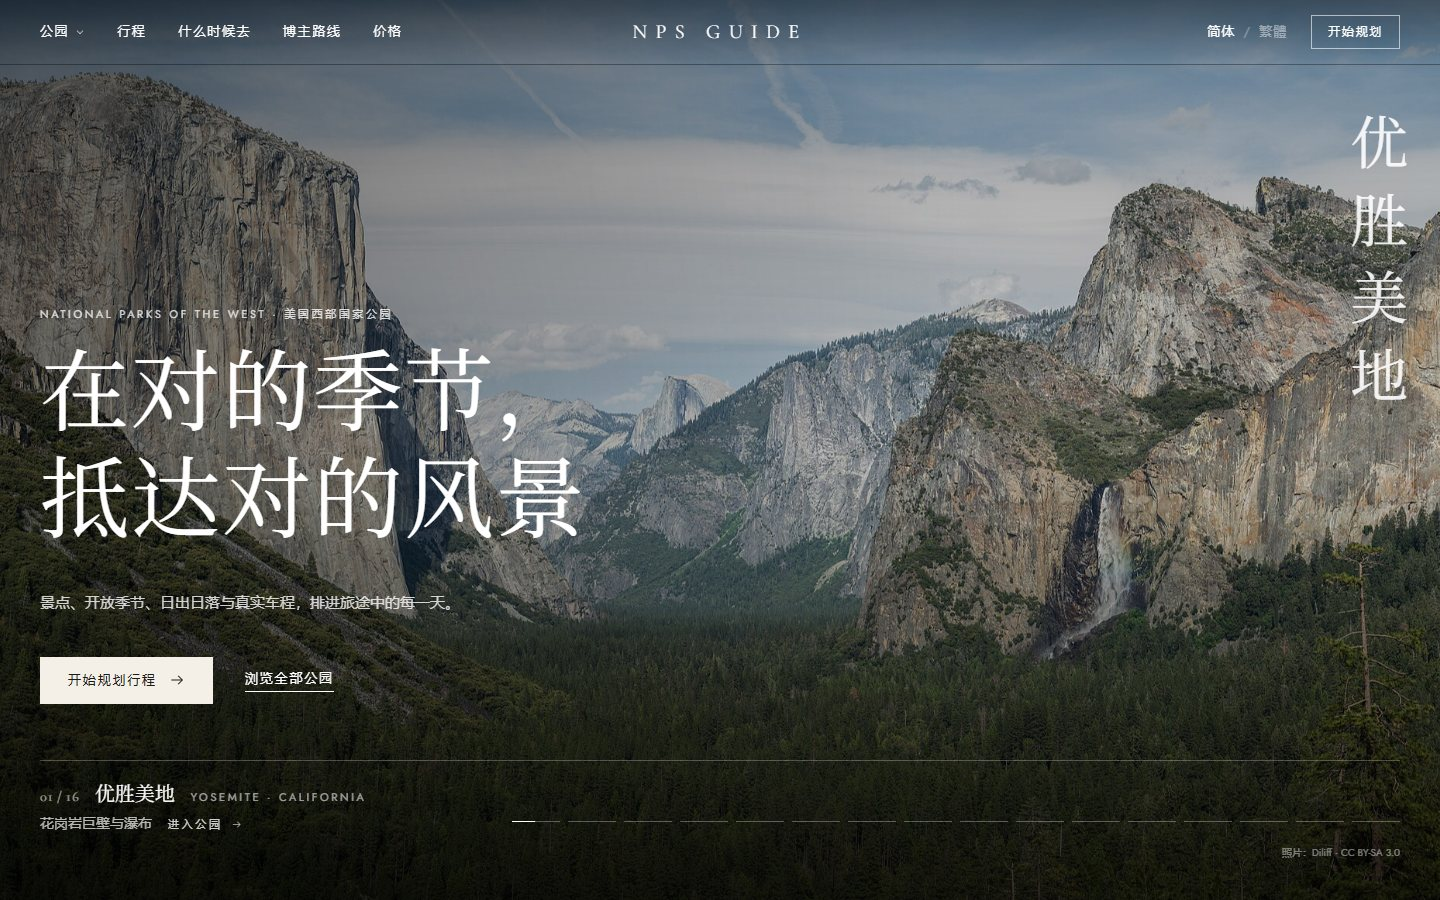
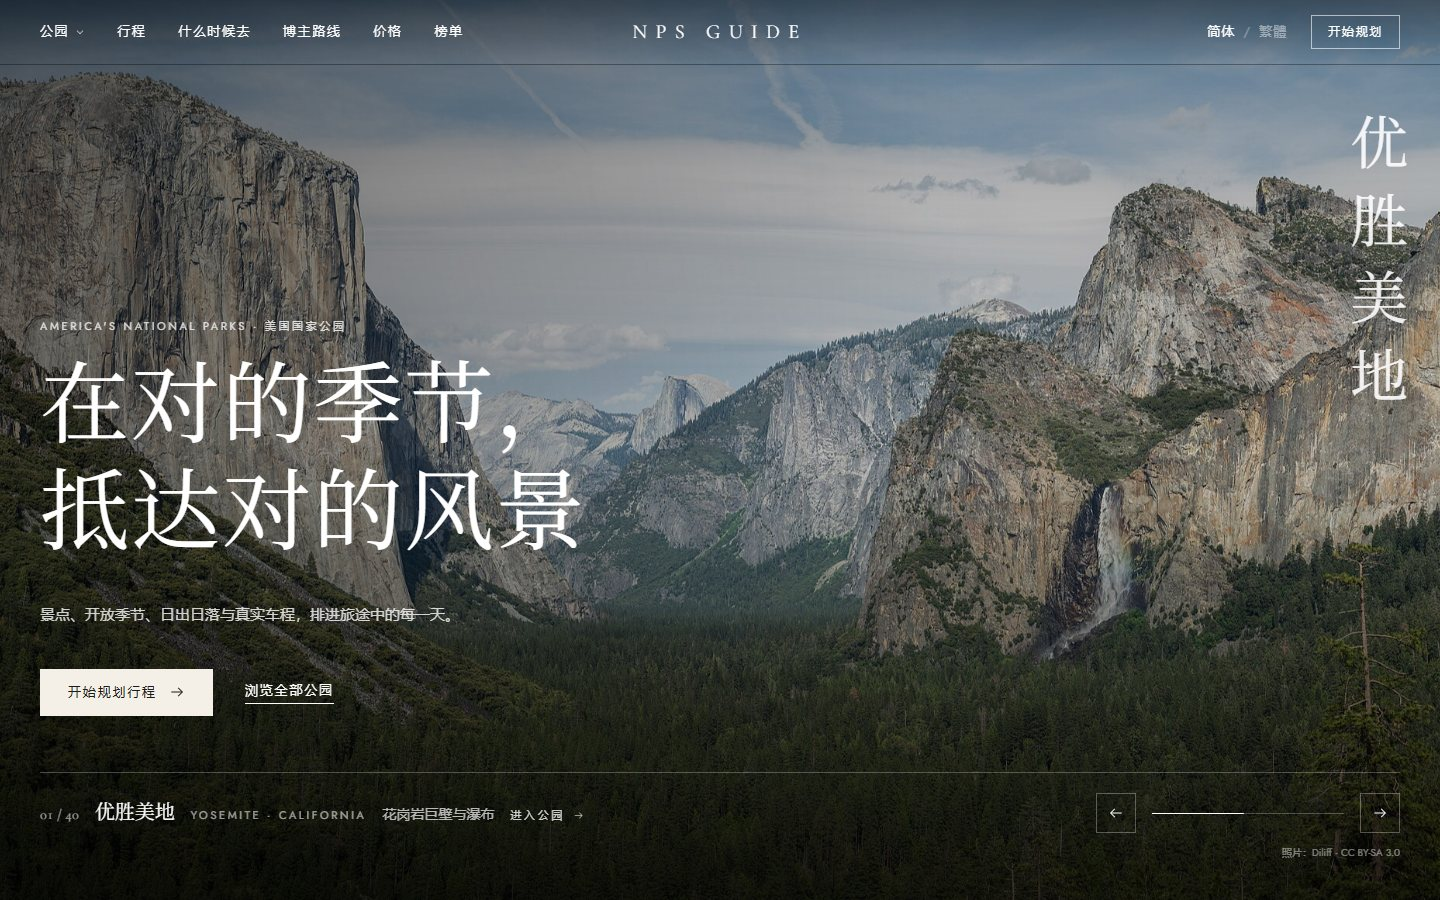
换页淡入淡出、首屏大图也放大成公园首图；手机上地图滚到附近才加载、屏幕外区块先不排版，无障碍对比度达标
- 换页时整页淡出淡入（page-transition.tsx）；首屏轮播点“进入公园”时大图放大成公园页首图，和公园目录的那张按滚动位置二选一，不会同名冲突
- 屏幕外的大区块和景点卡片用 content-visibility 先不排版：中文字体每加载一片都要整页重排，模拟手机上首页主线程阻塞从 5.2 秒降到 3 秒左右
- 地图快滚到屏幕附近才加载 maplibre-gl（1 MB），公园页阻塞从 10 秒降到 1–3.5 秒
- 无障碍：浅灰字、琥珀色提醒、简繁切换对比度到 4.5:1，首页地图圆点有名字，人次柱状图加 role，照片署名的点击区域加大，手机上的小标签 12px
- README 截图和社交预览图按新设计重拍；截图脚本跟着改（地图滚到附近才有、内页页头有照片）

diff --git a/src/components/home/hero.tsx b/src/components/home/hero.tsx
@@ -1,10 +1,11 @@
 "use client";
 
 import Link from "next/link";
-import { useEffect, useRef, useState, type CSSProperties, type ReactNode } from "react";
+import { useEffect, useRef, useState, ViewTransition, type CSSProperties, type ReactNode } from "react";
 import { CommonsImage } from "@/components/commons-image";
 import { IconArrowRight } from "@/components/icons";
 import { buttonLarge } from "@/components/ui";
+import { usePastHero } from "./use-past-hero";
 
 export interface HeroSlide {
   code: string;
@@ -56,6 +57,7 @@ export function Hero({
   const [index, setIndex] = useState(0);
   const [previous, setPrevious] = useState<number | null>(null);
   const firstImage = useRef<HTMLImageElement>(null);
+  const pastHero = usePastHero();
 
   // 第一张图在 React 接手之前就从缓存里加载好了的话，onLoad 不会再触发，这里补一次
   useEffect(() => {
@@ -89,23 +91,30 @@ export function Hero({
   return (
     <section className="relative h-[100svh] min-h-[640px] overflow-hidden bg-ink text-white">
       {slides.map((slide, i) => (
-        <div
+        // 点“进入公园”时，当前这张大图过渡成公园页的首图（公园页上有同名的 ViewTransition）
+        <ViewTransition
           key={slide.code}
-          className={`absolute inset-0 transition-opacity duration-[1800ms] ease-out ${i === index ? "opacity-100" : "opacity-0"}`}
+          name={i === index && !pastHero ? `park-photo-${slide.code}` : undefined}
+          share="park-morph"
+          default="none"
         >
-          {mounted(i) && (
-            <CommonsImage
-              src={slide.image}
-              alt=""
-              fill
-              priority={i === 0}
-              ref={i === 0 ? firstImage : undefined}
-              onLoad={i === 0 ? announceReady : undefined}
-              sizes="100vw"
-              className={`object-cover ${animated(i) ? "animate-kenburns" : ""}`}
-            />
-          )}
-        </div>
+          <div
+            className={`absolute inset-0 transition-opacity duration-[1800ms] ease-out ${i === index ? "opacity-100" : "opacity-0"}`}
+          >
+            {mounted(i) && (
+              <CommonsImage
+                src={slide.image}
+                alt=""
+                fill
+                priority={i === 0}
+                ref={i === 0 ? firstImage : undefined}
+                onLoad={i === 0 ? announceReady : undefined}
+                sizes="100vw"
+                className={`object-cover ${animated(i) ? "animate-kenburns" : ""}`}
+              />
+            )}
+          </div>
+        </ViewTransition>
       ))}
       <div className="absolute inset-0 bg-gradient-to-t from-black/75 via-black/15 to-black/35" />
       <div className="absolute inset-y-0 left-0 w-2/3 bg-gradient-to-r from-black/40 to-transparent" />

diff --git a/src/app/[locale]/page.tsx b/src/app/[locale]/page.tsx
@@ -147,7 +147,7 @@ export default async function HomePage({ params }: PageProps<"/[locale]">) {
       </section>
 
       {/* 公园目录 */}
-      <section id="parks" className={`${container} scroll-mt-16 pb-28 lg:pb-44`}>
+      <section id="parks" className={`${container} cv-auto [--cv-h:6000px] scroll-mt-16 pb-28 lg:pb-44`}>
         <div className="mb-14 grid gap-6 lg:mb-20 lg:grid-cols-12">
           <p className="eyebrow text-mute lg:col-span-3">{t.parksEyebrow}</p>
           <div className="lg:col-span-9">
@@ -162,7 +162,7 @@ export default async function HomePage({ params }: PageProps<"/[locale]">) {
 
       {/* 园外名胜：不归国家公园管的地方，和国家公园分开放 */}
       {localSites.length > 0 && (
-        <section id="places" className="scroll-mt-16 border-t border-line bg-paper-deep">
+        <section id="places" className="cv-auto [--cv-h:900px] scroll-mt-16 border-t border-line bg-paper-deep">
           <div className={`${container} py-24 lg:py-32`}>
             <div className="mb-12 grid gap-6 lg:grid-cols-12">
               <p className="eyebrow text-mute lg:col-span-3">{t.sitesEyebrow}</p>
@@ -211,7 +211,7 @@ export default async function HomePage({ params }: PageProps<"/[locale]">) {
 
       {/* 当季 */}
       {inSeason.length > 0 && (
-        <section className="bg-paper-deep">
+        <section className="cv-auto [--cv-h:2400px] bg-paper-deep">
           <div className={`${container} grid gap-14 py-28 lg:grid-cols-12 lg:py-36`}>
             <div className="lg:sticky lg:top-28 lg:col-span-4 lg:self-start">
               <p className="eyebrow text-mute">{t.seasonEyebrow}</p>
@@ -253,7 +253,7 @@ export default async function HomePage({ params }: PageProps<"/[locale]">) {
       )}
 
       {/* 怎么用 */}
-      <section className={`${container} py-28 lg:py-40`}>
+      <section className={`${container} cv-auto [--cv-h:700px] py-28 lg:py-40`}>
         <div className="grid gap-14 lg:grid-cols-12">
           <div className="lg:col-span-4">
             <p className="eyebrow text-mute">{t.stepsEyebrow}</p>
@@ -274,7 +274,7 @@ export default async function HomePage({ params }: PageProps<"/[locale]">) {
       </section>
 
       {/* 地图 */}
-      <section className="border-t border-line">
+      <section className="cv-auto [--cv-h:1200px] border-t border-line">
         <div className={`${container} grid gap-14 py-28 lg:grid-cols-12 lg:py-40`}>
           <div className="lg:col-span-4">
             <p className="eyebrow text-mute">{t.mapEyebrow}</p>

diff --git a/src/app/[locale]/parks/[code]/page.tsx b/src/app/[locale]/parks/[code]/page.tsx
@@ -312,7 +312,7 @@ export default async function ParkPage({ params }: PageProps<"/[locale]/parks/[c
       )}
 
       {hasSeasonInfo && (
-        <section id="activities" className="scroll-mt-28 border-t border-line">
+        <section id="activities" className="cv-auto [--cv-h:3000px] scroll-mt-28 border-t border-line">
           <div className={`${container} py-20 lg:py-28`}>
             <p className="eyebrow mb-12 text-mute">{t.activities.eyebrow}</p>
             <ActivitiesSection activities={parkActivities} attractions={attractions} dict={dict} />
@@ -323,7 +323,7 @@ export default async function ParkPage({ params }: PageProps<"/[locale]/parks/[c
       )}
 
       {hasBookings && (
-        <section id="bookings" className="scroll-mt-28 border-t border-line">
+        <section id="bookings" className="cv-auto [--cv-h:2000px] scroll-mt-28 border-t border-line">
           <div className={`${container} py-20 lg:py-28`}>
             <p className="eyebrow mb-12 text-mute">{t.bookings.eyebrow}</p>
             <BookingsSection
@@ -365,7 +365,7 @@ export default async function ParkPage({ params }: PageProps<"/[locale]/parks/[c
       </section>
 
       {parkCreators.length > 0 && (
-        <section id="creators" className="scroll-mt-28 border-t border-line">
+        <section id="creators" className="cv-auto [--cv-h:1500px] scroll-mt-28 border-t border-line">
           <div className={`${container} py-20 lg:py-28`}>
             <p className="eyebrow text-mute">{r.parkEyebrow}</p>
             <h2 className="mt-5 font-serif text-[clamp(2rem,3.5vw,3.2rem)] leading-tight">{r.parkTitle}</h2>
@@ -394,7 +394,7 @@ export default async function ParkPage({ params }: PageProps<"/[locale]/parks/[c
         </section>
       )}
 
-      <section id="live" className="scroll-mt-28 bg-paper-deep">
+      <section id="live" className="cv-auto [--cv-h:1500px] scroll-mt-28 bg-paper-deep">
         <div className={`${container} py-20 lg:py-28`}>
           <p className="eyebrow text-mute">{t.infoEyebrow}</p>
           <h2 className="mt-5 font-serif text-[clamp(2rem,3.5vw,3.2rem)] leading-tight">{t.infoTitle}</h2>

diff --git a/src/components/home/park-index.tsx b/src/components/home/park-index.tsx
@@ -4,6 +4,7 @@ import Link from "next/link";
 import { useEffect, useRef, useState, ViewTransition } from "react";
 import { CommonsImage } from "@/components/commons-image";
 import { IconArrowRight } from "@/components/icons";
+import { usePastHero } from "./use-past-hero";
 
 export interface ParkIndexItem {
   code: string;
@@ -31,6 +32,7 @@ export function ParkIndex({ items, inSeasonLabel }: { items: ParkIndexItem[]; in
   // 大图只加载看到过的公园，不然一打开首页就同时下载几十张
   const [shown, setShown] = useState(() => new Set([items[0]?.code]));
   const list = useRef<HTMLDivElement>(null);
+  const pastHero = usePastHero();
   const activeIndex = Math.max(0, items.findIndex((item) => item.code === active));
   const activeItem = items[activeIndex];
   const activate = (code: string) => {
@@ -76,7 +78,12 @@ export function ParkIndex({ items, inSeasonLabel }: { items: ParkIndexItem[]; in
               .filter((item) => item.image && shown.has(item.code))
               .map((item) => (
                 // 点进公园页时这张图放大成公园页的首图（公园页上有同名的 ViewTransition）
-                <ViewTransition key={item.code} name={`park-photo-${item.code}`} share="park-morph" default="none">
+                <ViewTransition
+                  key={item.code}
+                  name={pastHero ? `park-photo-${item.code}` : undefined}
+                  share="park-morph"
+                  default="none"
+                >
                   <div
                     className={`absolute inset-0 transition-[opacity,transform] duration-[1400ms] ease-[cubic-bezier(0.16,1,0.3,1)] ${
                       item.code === active ? "scale-100 opacity-100" : "scale-105 opacity-0"

diff --git a/src/components/map/park-map.tsx b/src/components/map/park-map.tsx
@@ -159,8 +159,26 @@ export function ParkMap({
 
   const handleSelect = useEffectEvent((id: string) => onSelect?.(id));
 
+  // 地图快滚到屏幕里（上下 800 像素以内）才加载：maplibre-gl 有 1 MB，公园页的地图在很下面，一打开就加载手机上要卡好几秒
+  const [near, setNear] = useState(false);
+  useEffect(() => {
+    const element = containerRef.current;
+    if (!element) return;
+    const observer = new IntersectionObserver(
+      ([entry]) => {
+        if (!entry.isIntersecting) return;
+        setNear(true);
+        observer.disconnect();
+      },
+      { rootMargin: "800px 0px" },
+    );
+    observer.observe(element);
+    return () => observer.disconnect();
+  }, []);
+
   // 地图只初始化一次；maplibre-gl 依赖浏览器环境，动态加载
   useEffect(() => {
+    if (!near) return;
     let cancelled = false;
     let map: MapLibreMap | undefined;
 
@@ -374,7 +392,7 @@ export function ParkMap({
       map?.remove();
       mapRef.current = null;
     };
-  }, []);
+  }, [near]);
 
   useEffect(() => {
     const map = mapRef.current;
@@ -436,7 +454,7 @@ export function ParkMap({
       {/* maplibre 的 CSS 会把容器设成 position: relative，所以用 h-full 而不是 inset-0 撑满 */}
       <div ref={containerRef} className={`h-full w-full transition-opacity duration-500 ${ready ? "opacity-100" : "opacity-0"}`} />
       {!ready && (
-        <div className="eyebrow absolute inset-0 flex animate-pulse items-center justify-center text-mute">
+        <div className="eyebrow absolute inset-0 flex items-center justify-center text-ink-soft">
           {text.loading}
         </div>
       )}

diff --git a/src/app/globals.css b/src/app/globals.css
@@ -18,8 +18,8 @@
   --color-paper-deep: #ebe4d8;
   --color-ink: #1c1b18;
   --color-ink-soft: #45413a;
-  /* 浅灰字在纸色底上对比度要到 4.5:1（WCAG AA） */
-  --color-mute: #6f685c;
+  /* 浅灰字在纸色底、深一点的纸色底上对比度都要到 4.5:1（WCAG AA） */
+  --color-mute: #68615a;
   --color-line: #d9cfbf;
 
   /* 砂岩红：强调色（热度、选中、步道） */
@@ -79,9 +79,13 @@ body {
 }
 
 /* 小号大写标签，比如 “DESTINATIONS” */
+/* 手机上 12px（再小在户外看不清），宽屏 11px */
 @utility eyebrow {
   font-family: var(--font-jost), var(--font-sans-cjk);
-  font-size: 11px;
+  font-size: 12px;
+  @media (width >= 40rem) {
+    font-size: 11px;
+  }
   line-height: 1.4;
   letter-spacing: 0.24em;
   text-transform: uppercase;
@@ -107,6 +111,15 @@ body {
   &::-webkit-scrollbar {
     display: none;
   }
+}
+
+/*
+ * 屏幕外的大区块先不排版（content-visibility），滚到附近再排：中文字体按字符分片，每加载一片整页都要重排一次，
+ * 首页、公园页几十个区块全排一遍很慢。--cv-h 是没排版时占的估计高度，排过一次以后记住真实高度。
+ */
+@utility cv-auto {
+  content-visibility: auto;
+  contain-intrinsic-size: auto var(--cv-h, 900px);
 }
 
 /* 竖排中文，做装饰性的标题 */
@@ -333,6 +346,10 @@ body {
 ::view-transition-new(root) {
   animation-duration: 0.45s;
   animation-timing-function: ease;
+}
+/* 换页的标记点（page-transition.tsx）本身不画出来 */
+::view-transition-group(.page-marker) {
+  display: none;
 }
 ::view-transition-group(.park-morph) {
   animation-duration: 0.9s;

diff --git a/src/components/attractions/attractions-explorer.tsx b/src/components/attractions/attractions-explorer.tsx
@@ -201,17 +201,17 @@ export function AttractionsExplorer({
           <div className="flex flex-wrap gap-x-5 gap-y-2">
             <button type="button" className={filterClass(filter === "all")} onClick={() => setFilter("all")}>
               {t.all}
-              <span className="text-[11px] tabular-nums opacity-60">{attractions.length}</span>
+              <span className="text-[11px] tabular-nums opacity-70">{attractions.length}</span>
             </button>
             <button type="button" className={filterClass(filter === "mustSee")} onClick={() => setFilter("mustSee")}>
               {t.mustSee}
-              <span className="text-[11px] tabular-nums opacity-60">{mustSeeIds.length}</span>
+              <span className="text-[11px] tabular-nums opacity-70">{mustSeeIds.length}</span>
             </button>
             {kinds.map((kind) => (
               <button key={kind} type="button" className={filterClass(filter === kind)} onClick={() => setFilter(kind)}>
                 <span className="size-1.5 rounded-full" style={{ backgroundColor: KIND_COLORS[kind] }} />
                 {text.kinds[kind]}
-                <span className="text-[11px] tabular-nums opacity-60">{attractions.filter((a) => a.kind === kind).length}</span>
+                <span className="text-[11px] tabular-nums opacity-70">{attractions.filter((a) => a.kind === kind).length}</span>
               </button>
             ))}
           </div>

diff --git a/src/app/[locale]/layout.tsx b/src/app/[locale]/layout.tsx
@@ -3,6 +3,7 @@ import { Cormorant_Garamond, Jost, Noto_Serif_SC, Noto_Serif_TC } from "next/fon
 import { notFound } from "next/navigation";
 import { BackToTop } from "@/components/site/back-to-top";
 import { OfflineBanner, ServiceWorkerRegister } from "@/components/site/offline";
+import { PageTransition } from "@/components/site/page-transition";
 import { SiteFooter } from "@/components/site/site-footer";
 import { SiteHeader } from "@/components/site/site-header";
 import { isSite, parks, regionOrder } from "@/data/parks";
@@ -92,6 +93,7 @@ export default async function LocaleLayout({ children, params }: LayoutProps<"/[
           }}
         />
         <main className="flex-1">{children}</main>
+        <PageTransition />
         <SiteFooter locale={locale} dict={dict} />
         <BackToTop label={dict.nav.backToTop} />
         <OfflineBanner label={dict.common.offline} />

diff --git a/src/components/site/page-transition.tsx b/src/components/site/page-transition.tsx
@@ -1,0 +1,18 @@
+"use client";
+
+import { usePathname } from "next/navigation";
+import { ViewTransition } from "react";
+
+/**
+ * 换页时整页淡入淡出：React 只在有 ViewTransition 要动的时候才启动浏览器的换页过渡，
+ * 这里放一个看不见的小点，地址一变它就“换一个”，浏览器就把整页（root）交叉淡化一次。
+ * 页内的加载（Suspense）、筛选不会触发；同一页里改 #锚点、查询参数也不会。
+ */
+export function PageTransition() {
+  const pathname = usePathname();
+  return (
+    <ViewTransition key={pathname} enter="page-marker" exit="page-marker" default="none">
+      <span aria-hidden className="pointer-events-none fixed top-0 left-0 size-px opacity-0" />
+    </ViewTransition>
+  );
+}

diff --git a/src/components/home/use-past-hero.ts b/src/components/home/use-past-hero.ts
@@ -1,0 +1,25 @@
+"use client";
+
+import { useSyncExternalStore } from "react";
+
+function subscribe(callback: () => void) {
+  window.addEventListener("scroll", callback, { passive: true });
+  window.addEventListener("resize", callback);
+  return () => {
+    window.removeEventListener("scroll", callback);
+    window.removeEventListener("resize", callback);
+  };
+}
+
+/**
+ * 首页往下滚过了首屏的一半没有。
+ * 点进公园页时放大成首图的照片（同名 ViewTransition）一次只能有一张：
+ * 还在首屏时是轮播的大图，滚下去以后是公园目录左边的大图。
+ */
+export function usePastHero() {
+  return useSyncExternalStore(
+    subscribe,
+    () => window.scrollY >= window.innerHeight / 2,
+    () => false,
+  );
+}

diff --git a/src/components/attractions/attraction-card.tsx b/src/components/attractions/attraction-card.tsx
@@ -191,7 +191,7 @@ export function AttractionCard({
   const tips = attractionTips(a, text);
 
   return (
-    <article id={`attraction-${a.id}`} className="group scroll-mt-32 border-b border-line pb-12">
+    <article id={`attraction-${a.id}`} className="group cv-auto [--cv-h:1000px] scroll-mt-32 border-b border-line pb-12">
       {a.gallery.length > 0 && <PhotoGallery photos={a.gallery} title={a.nameZh} alt={`${a.nameZh} ${a.nameEn}`} text={t} />}
 
       <div className="space-y-5 pt-6">

diff --git a/src/components/locale-switcher.tsx b/src/components/locale-switcher.tsx
@@ -20,7 +20,7 @@ export function LocaleSwitcher({ current }: { current: Locale }) {
             href={`/${locale}${rest}`}
             lang={locale}
             aria-current={locale === current ? "true" : undefined}
-            className={locale === current ? "" : "opacity-45 transition-opacity hover:opacity-100"}
+            className={locale === current ? "" : "opacity-70 transition-opacity hover:opacity-100"}
           >
             {localeLabels[locale]}
           </Link>
